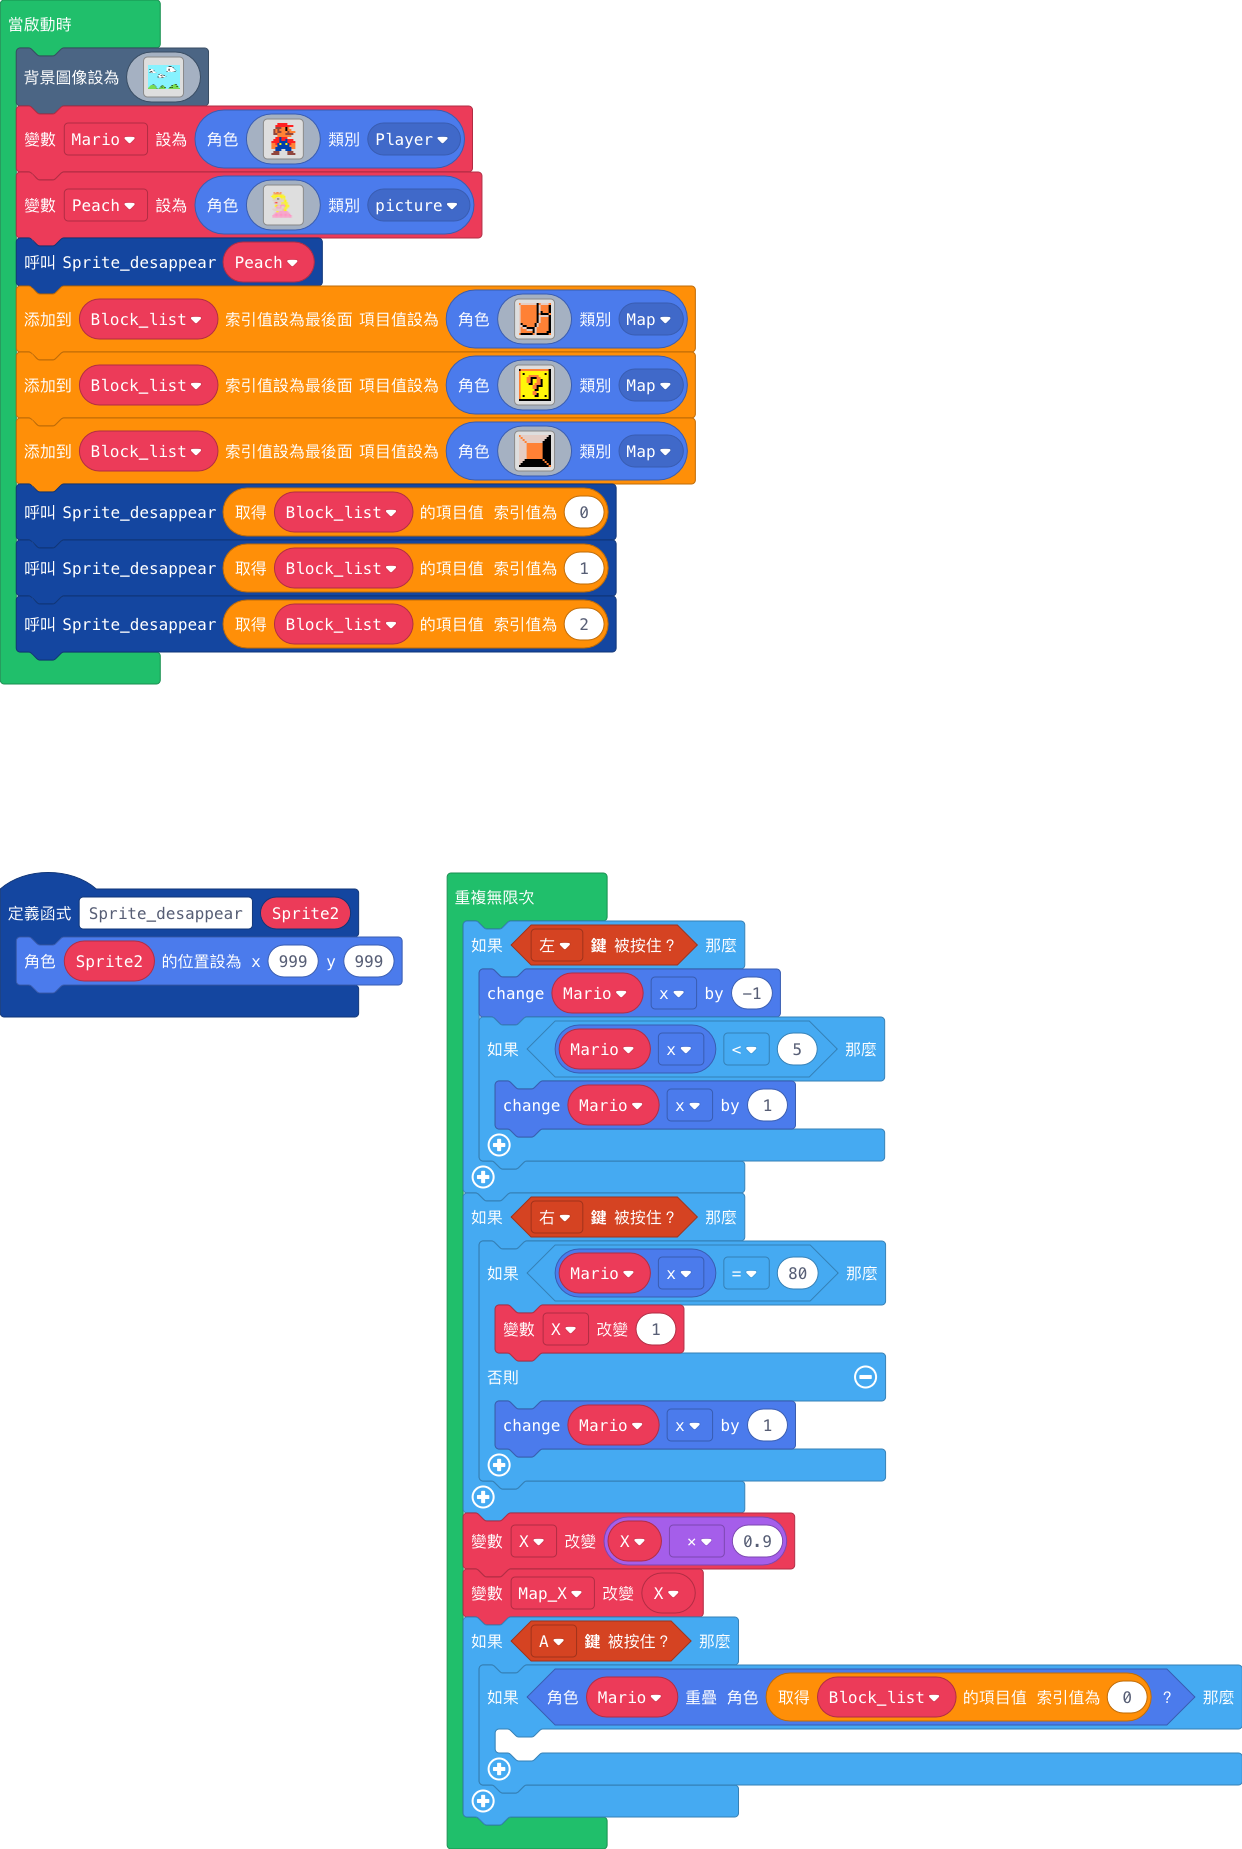
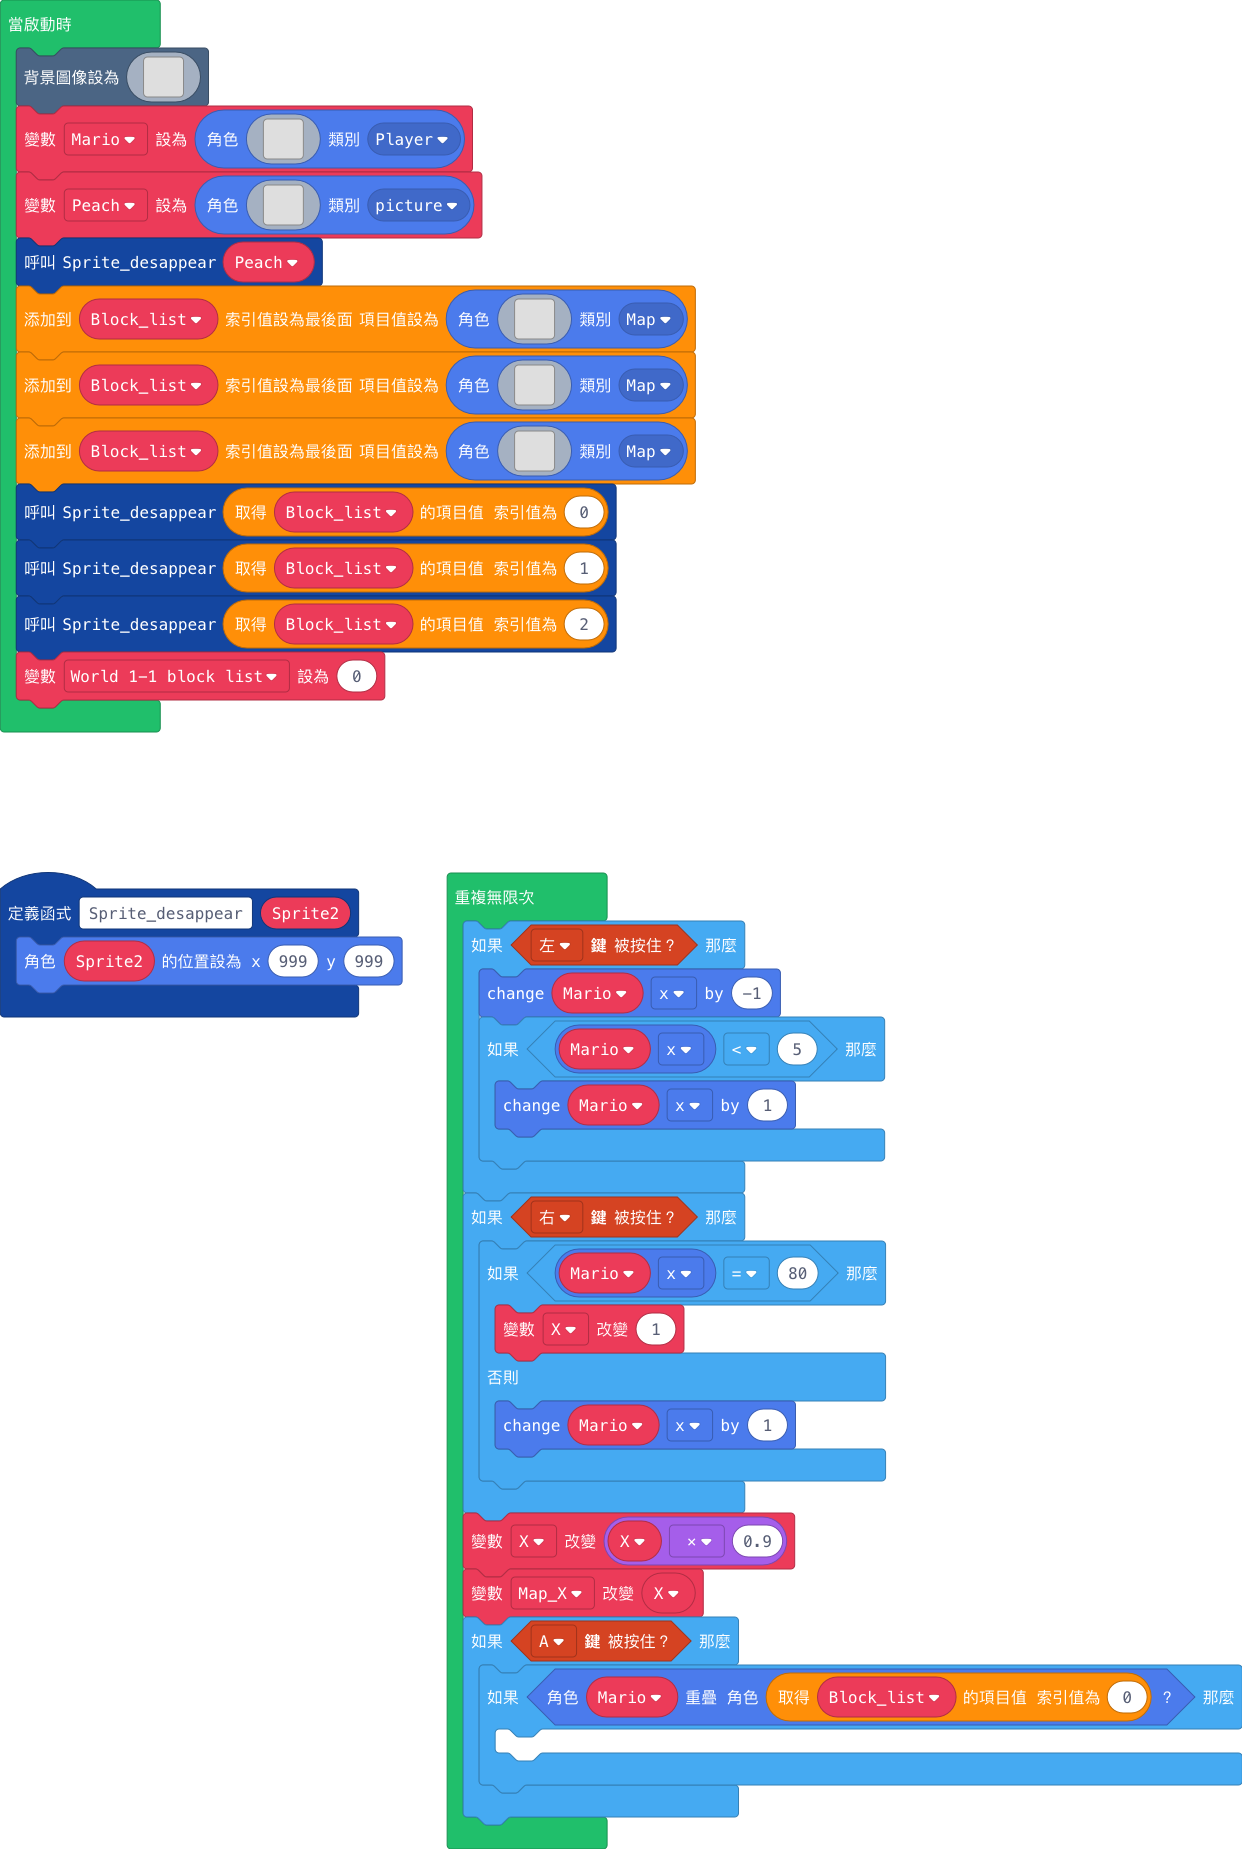
Update main.blocks, main.ts

diff --git a/main.ts b/main.ts
@@ -228,6 +228,7 @@ f f f f f f f f f f f f f f f 4
 Sprite_desappear(Block_list[0])
 Sprite_desappear(Block_list[1])
 Sprite_desappear(Block_list[2])
+let World_11_block_list = 0
 forever(function () {
     if (controller.left.isPressed()) {
         Mario.x += -1
